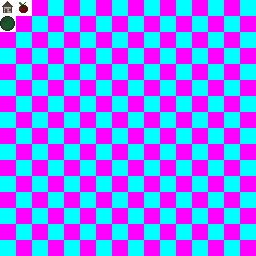
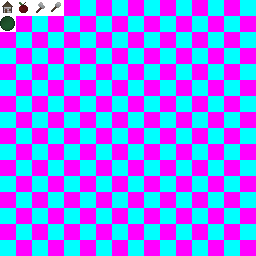
added tool bar

Changed region(s): [[0.125, 0.0, 0.25, 0.0625]]

diff --git a/Interfaces/Inventory.cs b/Interfaces/Inventory.cs
@@ -1,4 +1,5 @@
 using AnimalTownGame.Interfaces.Components;
+using AnimalTownGame.Items;
 using AnimalTownGame.Main;
 using AnimalTownGame.Objects.Characters;
 using Microsoft.Xna.Framework;
@@ -11,6 +12,10 @@ namespace AnimalTownGame.Interfaces {
         private static readonly Texture2D Texture = GameImpl.LoadContent<Texture2D>("Interfaces/Inventory");
         private readonly Player player;
         private Vector2 position;
+        private Vector2 invOffset;
+        private Vector2 toolsOffset;
+        private Vector2 invTextOffset;
+        private Vector2 toolsTextOffset;
         public InvContextMenu ContextMenu;
 
         public Inventory(Player player) {
@@ -36,17 +41,33 @@ namespace AnimalTownGame.Interfaces {
 
         public override void Draw(SpriteBatch batch) {
             batch.Draw(Texture, this.position, Color.White);
+
+            batch.DrawString(InterfaceManager.NormalFont, Locale.GetInterface("Inventory"),
+                this.position + this.invTextOffset, Color.White, 0F, Vector2.Zero, 0.2F, SpriteEffects.None, 0F);
+            batch.DrawString(InterfaceManager.NormalFont, Locale.GetInterface("Tools"),
+                this.position + this.toolsTextOffset, Color.White, 0F, Vector2.Zero, 0.2F, SpriteEffects.None, 0F);
+
             base.Draw(batch);
         }
 
         public override void Init(Viewport viewport, Size2 viewportSize) {
             base.Init(viewport, viewportSize);
             this.position = (Vector2) viewportSize / 2 - new Vector2(Texture.Width, Texture.Height) / 2;
+            this.invOffset = new Vector2(5, 12);
+            this.toolsOffset = new Vector2(125, 12);
+            this.invTextOffset = new Vector2(5, 4);
+            this.toolsTextOffset = new Vector2(125, 4);
+
             for (var y = 0; y < 4; y++)
                 for (var x = 0; x < 6; x++)
                     this.AddSlot(new ItemSlot(this,
-                        this.position + new Vector2(5 + x * 16 + (y % 2 == 0 ? 0 : 8), 4 + y * 14),
+                        this.position + this.invOffset + new Vector2(x * 16 + (y % 2 == 0 ? 0 : 8), y * 14),
                         this.player.Inventory, 6 * y + x));
+            for (var y = 0; y < 2; y++)
+                for (var x = 0; x < 2; x++)
+                    this.AddSlot(new ItemSlot(this,
+                        this.position + this.toolsOffset + new Vector2(x * 16 + (y % 2 == 0 ? 0 : 8), y * 14),
+                        this.player.Tools, 2 * y + x, item => item is ItemTool));
         }
 
     }

diff --git a/Main/SaveManager.cs b/Main/SaveManager.cs
@@ -71,15 +71,14 @@ namespace AnimalTownGame.Main {
 
         public string Map;
         public Vector2 Position;
-        public List<string> Items;
+        public ItemListInfo Inventory;
+        public ItemListInfo Tools;
 
         public PlayerInfo(Player player) {
             this.Map = player.Map.Name;
             this.Position = player.Position;
-            this.Items = new List<string>();
-            foreach (var item in player.Inventory) {
-                this.Items.Add(item == null ? null : item.Type.Name);
-            }
+            this.Inventory = new ItemListInfo(player.Inventory);
+            this.Tools = new ItemListInfo(player.Tools);
         }
 
         public PlayerInfo() {
@@ -87,15 +86,36 @@ namespace AnimalTownGame.Main {
 
         public Player Load(Dictionary<string, Map> maps) {
             var player = new Player(maps[this.Map], this.Position);
-            for (var i = 0; i < this.Items.Count; i++) {
-                var item = this.Items[i];
-                if (item == null)
-                    player.Inventory[i] = null;
-                else
-                    player.Inventory[i] = Registry.ItemTypes[item].Instance();
-            }
+            this.Inventory.Load(player.Inventory);
+            this.Tools.Load(player.Tools);
             player.Map.AddObject(player);
             return player;
+        }
+
+    }
+
+    [Serializable]
+    public class ItemListInfo {
+
+        public List<string> Items;
+
+        public ItemListInfo(params Item[] items) {
+            this.Items = new List<string>();
+            foreach (var item in items)
+                this.Items.Add(item == null ? null : item.Type.Name);
+        }
+
+        public ItemListInfo() {
+        }
+
+        public void Load(Item[] items) {
+            for (var i = 0; i < this.Items.Count; i++) {
+                var item = this.Items[i];
+                if (item != null)
+                    items[i] = Registry.ItemTypes[item].Instance();
+                else
+                    items[i] = null;
+            }
         }
 
     }

diff --git a/Interfaces/Components/ItemSlot.cs b/Interfaces/Components/ItemSlot.cs
@@ -13,14 +13,16 @@ namespace AnimalTownGame.Interfaces.Components {
         public readonly Vector2 Position;
         public readonly Item[] Items;
         public readonly int Index;
+        private readonly Fits fits;
         public new readonly ItemInterface Interface;
         private ComponentHover hoverInfo;
 
-        public ItemSlot(ItemInterface iface, Vector2 position, Item[] items, int index) : base(iface) {
+        public ItemSlot(ItemInterface iface, Vector2 position, Item[] items, int index, Fits fits = null) : base(iface) {
             this.Items = items;
             this.Index = index;
             this.Interface = iface;
             this.Position = position;
+            this.fits = fits;
         }
 
         public override bool OnMouse(MouseButton button, PressType type) {
@@ -28,6 +30,8 @@ namespace AnimalTownGame.Interfaces.Components {
                 if (!this.IsMousedComponent())
                     return false;
                 var temp = this.Interface.CursorItem;
+                if (temp != null && this.fits != null && !this.fits(temp))
+                    return false;
                 this.Interface.CursorItem = this.Items[this.Index];
                 this.Items[this.Index] = temp;
                 return true;
@@ -60,6 +64,8 @@ namespace AnimalTownGame.Interfaces.Components {
         public override bool IsMouseOver() {
             return Vector2.DistanceSquared(this.Position + Vector2.One * 7.5F, MousePos) <= 7.5F * 7.5F;
         }
+
+        public delegate bool Fits(Item item);
 
     }
 }

diff --git a/Main/Registry.cs b/Main/Registry.cs
@@ -24,6 +24,8 @@ namespace AnimalTownGame.Main {
         public static readonly TileType TileWall = new TileType(new Point(0, 1), TextureInside).SetWalkability(int.MaxValue);
 
         public static readonly ItemType ItemApple = new ItemType("Apple", new Point(1, 0));
+        public static readonly ItemType ItemAxe = new ToolType("Axe", new Point(2, 0));
+        public static readonly ItemType ItemShovel = new ToolType("Shovel", new Point(3, 0));
 
         public static readonly ItemType ItemWhiteLamp = new FurnitureType("WhiteLamp", new RectangleF(-0.5F, -1.5F, 1, 2), new RectangleF(-0.25F, -0.2F, 0.5F, 0.6F));
         public static readonly ItemType ItemRedRug = new FurnitureType("RedRug", new RectangleF(-1.5F, -0.5F, 3, 2), RectangleF.Empty, new RectangleF(-1.5F, -0.5F, 3, 2)).SetDepthOffset(-1F);

diff --git a/Items/ItemTool.cs b/Items/ItemTool.cs
@@ -1,0 +1,24 @@
+using Microsoft.Xna.Framework;
+
+namespace AnimalTownGame.Items {
+    public class ItemTool : Item {
+
+        private readonly ToolType type;
+
+        public ItemTool(ToolType type) : base(type) {
+            this.type = type;
+        }
+
+    }
+
+    public class ToolType : ItemType {
+
+        public ToolType(string name, Point textureCoord) : base(name, textureCoord) {
+        }
+
+        public override Item Instance() {
+            return new ItemTool(this);
+        }
+
+    }
+}

diff --git a/Objects/Characters/Player.cs b/Objects/Characters/Player.cs
@@ -8,6 +8,7 @@ namespace AnimalTownGame.Objects.Characters {
     public class Player : Character {
 
         public readonly Item[] Inventory = new Item[24];
+        public readonly Item[] Tools = new Item[4];
 
         public Player(Map map, Vector2 position) : base("Player", map, position) {
             this.WalkSpeed = 0.03F;
